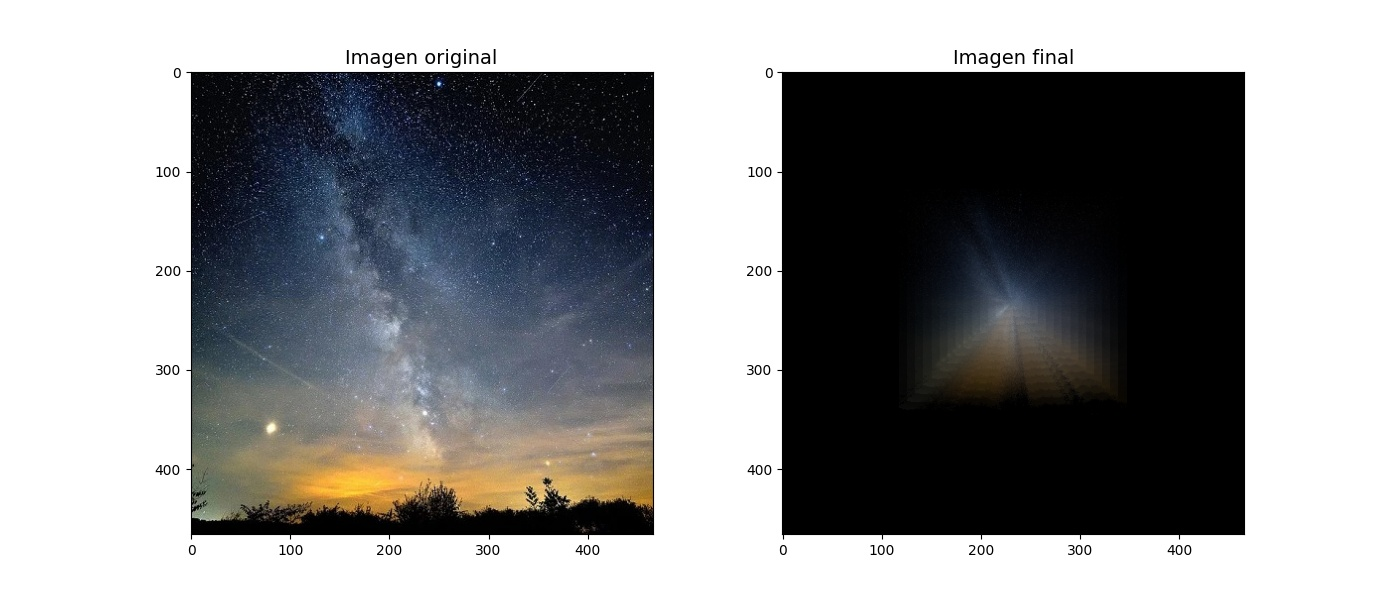
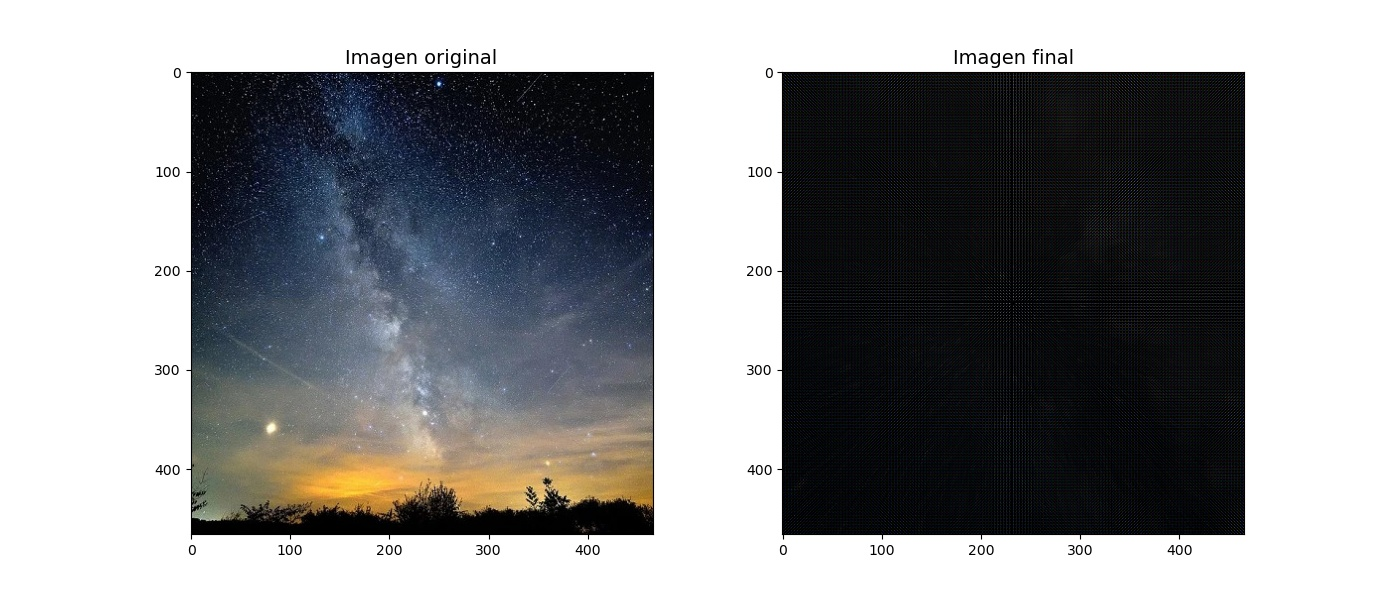
funciona bien

diff --git a/core/optic_path.py b/core/optic_path.py
@@ -3,6 +3,7 @@ import time
 
 import matplotlib.pyplot as plt
 import matplotlib.image as img
+from matplotlib_scalebar.scalebar import ScaleBar, SI_LENGTH
 import numpy as np
 
 class OpticalSystem:
@@ -22,7 +23,7 @@ class OpticalSystem:
         self.x_mid = self.x_abs/2
         self.y_mid = self.y_abs/2
 
-        self.pixel_height = image_height/np.min([self.x_abs, self.y_abs])
+        self.pixel_height = image_height/self.y_abs
 
         print()
         print(f'Imagen {image_name} cargada')
@@ -53,9 +54,9 @@ class OpticalSystem:
     def add_plane_mirror(self):
 
         # Matriz del espejo
-        self.A[0] = np.array([[-1, 0], [1, 0]]).dot(self.A[0])
-        self.A[1] = np.array([[-1, 0], [1, 0]]).dot(self.A[1])
-        self.A[2] = np.array([[-1, 0], [1, 0]]).dot(self.A[2])
+        self.A[0] = np.array([[-1, 0], [0, 1]]).dot(self.A[0])
+        self.A[1] = np.array([[-1, 0], [0, 1]]).dot(self.A[1])
+        self.A[2] = np.array([[-1, 0], [0, 1]]).dot(self.A[2])
 
     def add_single_lens(self, R1, R2, nl, dl):
 
@@ -90,7 +91,7 @@ class OpticalSystem:
         self.A[1] = np.array([[-1, -2*n0[1]/R], [0, 1]]).dot(self.A[1])
         self.A[2] = np.array([[-1, -2*n0[2]/R], [0, 1]]).dot(self.A[2])
 
-    def trace(self, ray_count = 2, output_size = None ):
+    def trace(self, ray_count = 2, output_size = None, save_rays = False, magnification = 1):
 
         if output_size is None:
             self.transformed = np.zeros((self.y_abs, self.y_abs, 3), dtype=np.uint8) # Crear la matriz de salida
@@ -99,6 +100,7 @@ class OpticalSystem:
             # output_size debe ser (width, height)
 
         self.output_size = self.transformed.shape
+        self.magnification = magnification
 
         print(self.output_size)
 
@@ -114,25 +116,26 @@ class OpticalSystem:
         for index, pixel in np.ndenumerate(self.image):
 
             progress_bar(progress, total_progress, prefix = 'Progreso:', suffix = 'Completado', length = 70)
+            progress += 1
             
             x = index[1] - self.x_mid  # Conversión a coordenadas centradas
             y = index[0] - self.y_mid
 
             r = np.sqrt(x**2+y**2) # Distancia desde el origen al punto
-            y_obj = r*self.pixel_height  # Multiplicación por la unidad en metros de cada píxel
+            y_obj = (r*self.pixel_height)  # Multiplicación por la unidad en metros de cada píxel
 
             if y_obj == 0:
                 continue
 
             alpha_principal = -np.arctan(y_obj/self.d0)
 
-            for ray_num, alpha in enumerate(np.linspace(alpha_principal, 0, ray_count)):
+            for ray_num, alpha in enumerate(np.linspace(alpha_principal, 0, ray_count, )):
 
                 v_in = np.array([self.n0[index[2]]*alpha, y_obj])
                 v_out = self.A[index[2]].dot(v_in)
 
                 y_image = v_out[1]
-                mg = y_image/y_obj
+                mg = (y_image/y_obj)*magnification
 
                 x_ = mg*x
                 y_ = mg*y
@@ -147,11 +150,8 @@ class OpticalSystem:
                     continue
 
                 temporal_matrix[pos_y_prime, pos_x_prime, index[2], ray_num] = pixel
-                
-            progress += 1
-        
-        np.save('temporal.npy', temporal_matrix)
-        self.transformed = (temporal_matrix/255).mean(axis = 3)
+
+        self.transformed = temporal_matrix/255
         
         center_color1 = self.image[int(self.y_mid+1), int(self.x_mid+1), :] # Correción del píxel central
         center_color2 = self.image[int(self.y_mid-1), int(self.x_mid-1), :]
@@ -161,20 +161,26 @@ class OpticalSystem:
         print(f'Trazado de rayos finalizado en {(stop-start):.2f} segundos')
         print()
 
+        if save_rays == True:
+            np.save(f'{image_name[:image_name.find(".")]}_matrix_output.npy', self.transformed)
+
     def plot(self, save = False):
         fig, ax = plt.subplots(1, 2, figsize = (14,6))
 
         ax[0].imshow(self.image)
         ax[0].set_title('Imagen original', fontsize = 14)
+        ax[0].add_artist(ScaleBar(self.pixel_height, 'm')) # Barra de escala
 
-        ax[1].imshow(self.transformed)
+
+        ax[1].imshow(self.transformed.mean(3))
         ax[1].set_title('Imagen final', fontsize = 14)
+        ax[1].add_artist(ScaleBar(self.pixel_height/self.magnification, 'm'))
 
         if save:
             fig.savefig(os.path.join('outputs', self.output_name))
 
         plt.show(block = True)
-
+        
 
 def progress_bar(iteration, total, prefix = '', suffix = '', decimals = 1, length = 100, fill = '█', printEnd = "\r"):
     """

diff --git a/reflecting.py b/reflecting.py
@@ -1,0 +1,25 @@
+from core import OpticalSystem
+
+image_name = 'marte.jpg'
+
+n_glass = [1.517, 1.520, 1.526] # Vídrio óptico
+n_air = [1, 1, 1] # Aire
+
+reflecting = OpticalSystem()
+reflecting.load(image_name)
+
+'''
+reflecting.add_space(d = 5.756e10)
+reflecting.add_curved_mirror(R = -2)
+reflecting.add_space(d = -2.2)
+reflecting.add_single_lens(0.3, -0.3, n_glass, 0.01)
+reflecting.add_space(d = -0.40)
+'''
+
+
+
+
+reflecting.trace(ray_count = 5, magnification = 0.7) # Hacer el trazado matricial de rayos
+reflecting.plot(save = True) # Graficar
+
+

diff --git a/test.py b/test.py
@@ -1,10 +1,4 @@
-#from core import OpticalSystem
-from multiprocessing import Process
+from core import OpticalSystem
 
-import numpy as np
-import matplotlib.image as img
-import matplotlib.pyplot as plt
-import cv2
-
-a = np.random.rand(3, 3, 3)
-print(list(np.ndenumerate(a)))
+test_sys = OpticalSystem()
+test_sys.load('marte.jpg')

diff --git a/README.md b/README.md
@@ -21,11 +21,10 @@ image_name = 'cielo_nocturno.jpg'
 reflector = OpticalSystem()
 reflector.load(image_name)
 
-reflector.add_space(d = 5.756e10)
-reflector.add_curved_mirror(R = 2)
-reflector.add_space(d = 0.508)
-reflector.add_single_lens()
+reflector.add_space(1.2)
+reflector.add_single_lens(0.3, -0.3, n_vidrio,  0.01)
+reflector.add_space(0.42)
 
-reflector.trace(ray_count = 15)
+reflector.trace(ray_count = 5)
 reflector.plot(save = True) 
 ```
